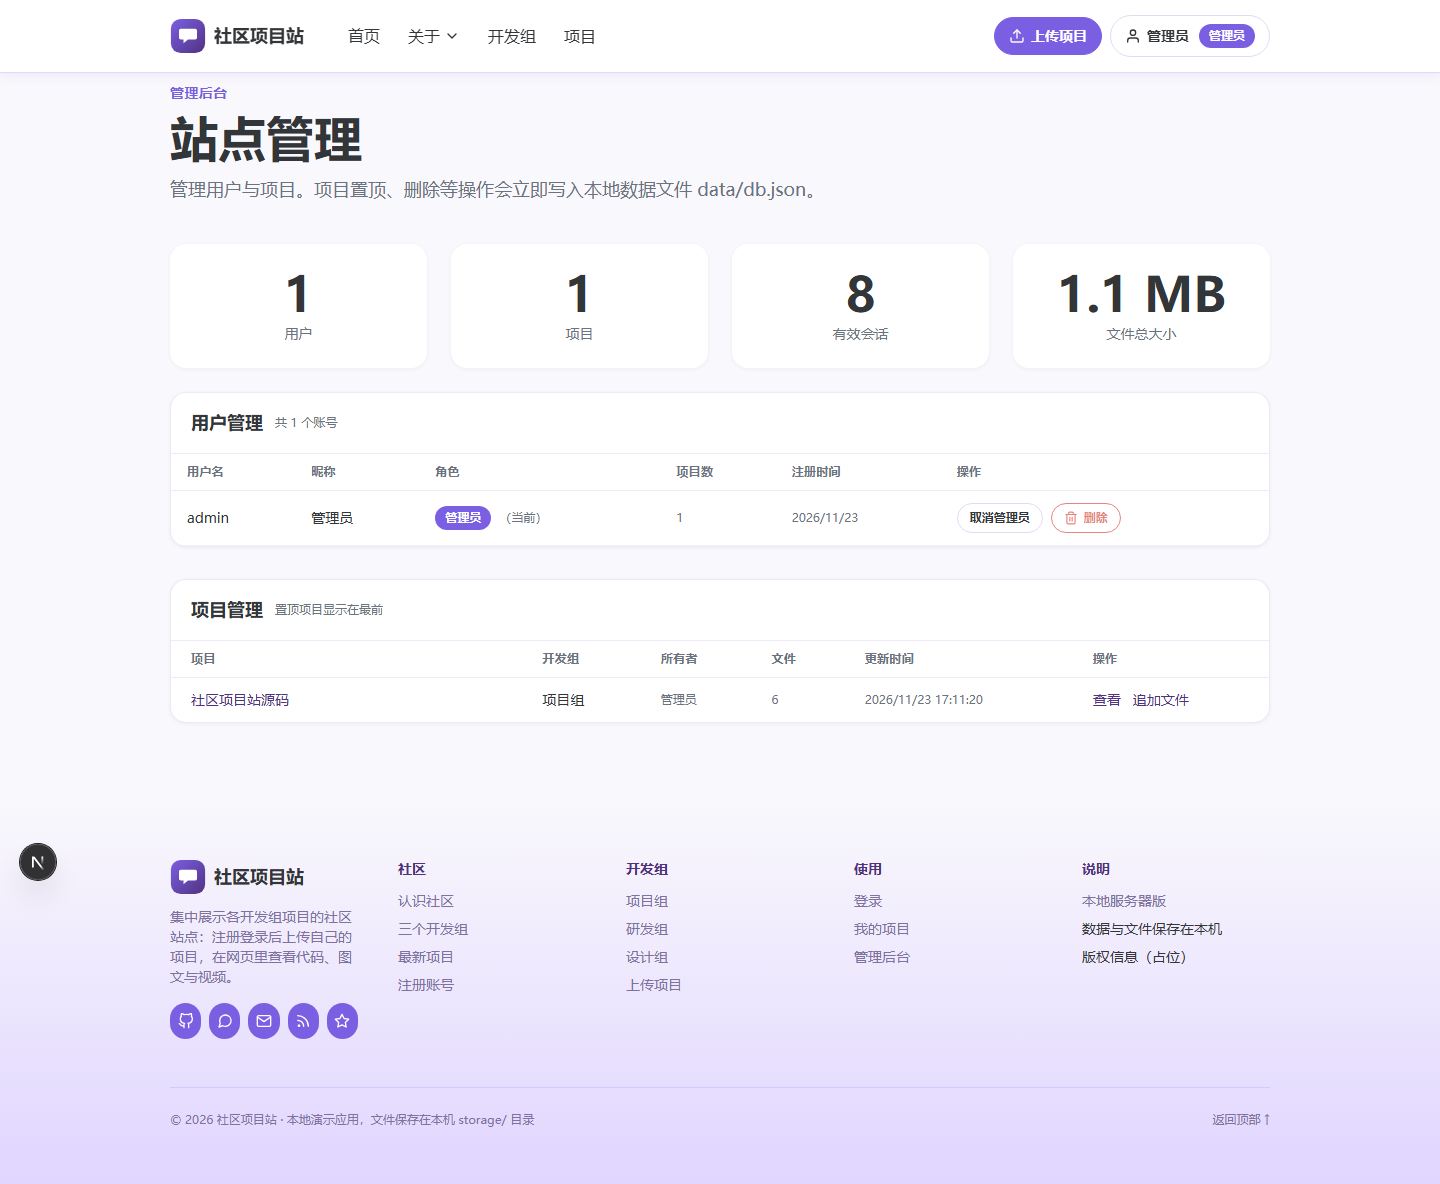
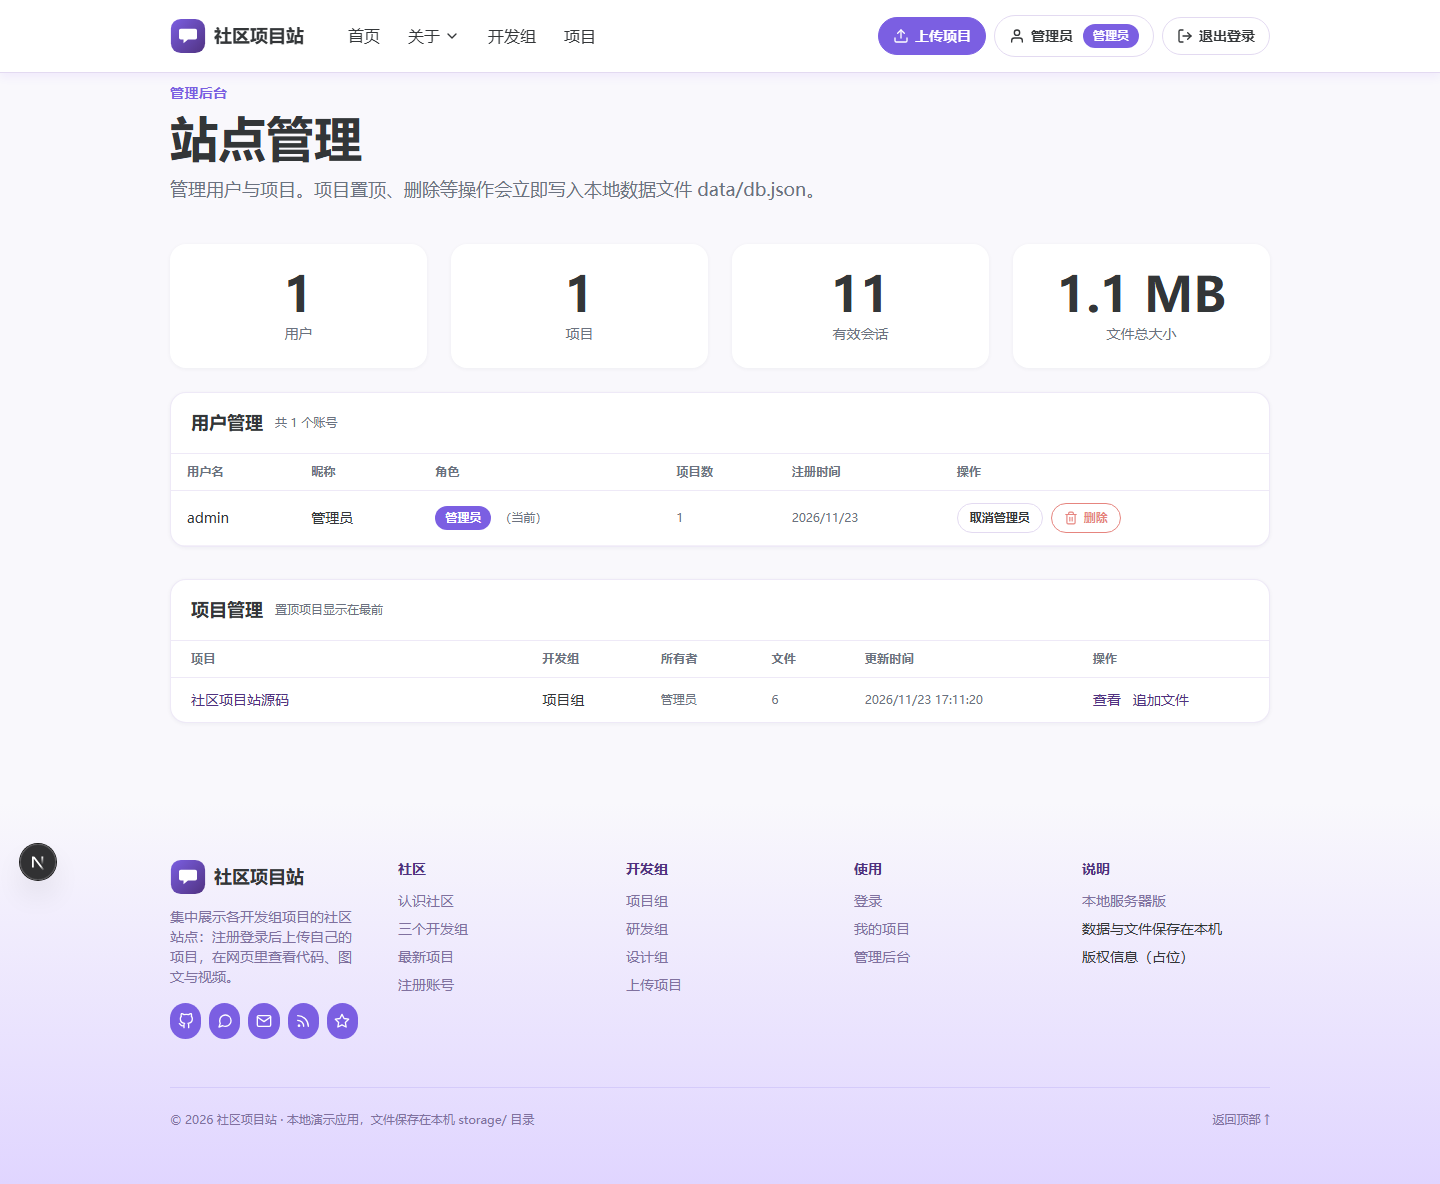
Add responsive logout controls to site header
Add desktop and mobile-menu logout buttons, fix mobile navigation contrast over hero backgrounds, and update product docs and screenshots.

Changed region(s): [[0.5938, 0.0, 0.875, 0.0625], [0.5625, 0.2188, 0.625, 0.2812]]

diff --git a/components/SiteHeader.tsx b/components/SiteHeader.tsx
@@ -4,6 +4,7 @@ import { useEffect, useState } from 'react';
 import Link from 'next/link';
 import { usePathname } from 'next/navigation';
 import { Icon } from './Icon';
+import { LogoutButton } from './LogoutButton';
 import type { PublicUser } from '@/lib/db';
 
 export function SiteHeader({ user }: { user: PublicUser | null }) {
@@ -84,6 +85,13 @@ export function SiteHeader({ user }: { user: PublicUser | null }) {
               <li>
                 <Link href="/#latest">项目</Link>
               </li>
+              {user && (
+                <li className="desktop:hidden">
+                  <div className="px-3 py-2">
+                    <LogoutButton className="btn btn--ghost btn--sm w-full" />
+                  </div>
+                </li>
+              )}
             </ul>
           </nav>
 
@@ -97,6 +105,7 @@ export function SiteHeader({ user }: { user: PublicUser | null }) {
                   <Icon name="user" className="w-4 h-4" /> {user.displayName}
                   {user.role === 'admin' && <span className="badge badge--admin ml-1">管理员</span>}
                 </Link>
+                <LogoutButton className="btn btn--ghost btn--sm hidden desktop:inline-flex" />
               </>
             ) : (
               <>

diff --git a/app/globals.css b/app/globals.css
@@ -74,6 +74,10 @@ body {
   .nav-toggle__bars { @apply relative w-5 h-[2px] bg-ink before:absolute before:content-[''] before:w-5 before:h-[2px] before:bg-ink before:-top-[6px] after:absolute after:content-[''] after:w-5 after:h-[2px] after:bg-ink after:top-[6px]; }
   .nav-open .site-nav { @apply block absolute left-0 right-0 top-full bg-white border-b border-line shadow-strong px-4 py-3; }
   .nav-open .nav-list { @apply flex-col items-stretch gap-0; }
+  /* 移动端下拉面板是白底：即使头部还处于深色 hero 上的透明态，面板内文字也必须是深色 */
+  .nav-open .site-header--transparent .nav-list a,
+  .nav-open .site-header--transparent .nav-link,
+  .nav-open .site-header--transparent .site-logo { @apply text-ink; }
 
   /* ---------- 按钮 ---------- */
   .btn { @apply inline-flex items-center justify-center gap-1.5 rounded-round font-bold text-md px-4 py-2.5 no-underline transition-all duration-150 cursor-pointer border; }

diff --git a/components/LogoutButton.tsx b/components/LogoutButton.tsx
@@ -4,14 +4,14 @@ import { useRouter } from 'next/navigation';
 import { Icon } from './Icon';
 import { useState } from 'react';
 
-export function LogoutButton() {
+export function LogoutButton({ className = 'btn btn--ghost btn--sm' }: { className?: string }) {
   const router = useRouter();
   const [busy, setBusy] = useState(false);
 
   return (
     <button
       type="button"
-      className="btn btn--ghost btn--sm"
+      className={className}
       disabled={busy}
       onClick={async () => {
         setBusy(true);

diff --git a/docs/PRD.md b/docs/PRD.md
@@ -190,7 +190,7 @@
 |F-04 组项目主页-项目卡片列表|组项目主页|页面加载|展示该组全部项目，一项目一卡片|无项目时显示空状态文案|P1|
 |F-05 项目卡片点击|组项目主页|点击项目卡片|进入对应项目的项目仓库页 /projects/[id]|本地完整应用已落地（2026.11.23）：三组卡片均可点击，进入项目仓库页；项目不存在时显示 404|P2|
 |F-06 注册账号|注册页 /register|填写用户名、昵称、密码并提交|创建账号并自动登录，跳转 /dashboard|用户名 3–20 位字母数字下划线连字符、密码至少 6 位、昵称最多 30 字；用户名重复返回 409；首个注册用户自动成为管理员|P2|
-|F-07 登录 / 退出|登录页 /login、导航栏退出|提交用户名密码 / 点击退出登录|登录成功写 httpOnly 会话 cookie（7 天）并跳转 /dashboard；退出后清除会话|用户名或密码不正确统一返回 401（不提示账号是否存在）；会话过期需重新登录|P2|
+|F-07 登录 / 退出|登录页 /login、导航栏「退出登录」（桌面按钮 + 移动端菜单内全宽按钮）|提交用户名密码 / 点击退出登录|登录成功写 httpOnly 会话 cookie（7 天）并跳转 /dashboard；退出后清除会话并返回首页|用户名或密码不正确统一返回 401（不提示账号是否存在）；会话过期需重新登录|P2|
 |F-08 上传项目|上传页 /upload|填写项目信息并选择文件或文件夹后提交|文件落盘 storage/projects/[项目 id]/，项目元数据写入 data/db.json，跳转项目仓库页|标题 2–60 字、标签最多 8 个、单次最多 500 个文件、单文件最大 2GB；非法相对路径（含 .. 等）与重复路径被跳过并在结果中列出；保存失败时清理已写文件|P2|
 |F-09 追加文件到已有项目|上传页（?project=[id]）|选择文件后提交|新文件追加到该项目目录并更新元数据|仅项目所有者或管理员可追加；已存在的路径会被跳过|P2|
 |F-10 项目仓库浏览|项目仓库页 /projects/[id]|页面加载|左侧目录树 + 右侧文件表（名称 / 类型 / 大小 / 查看 / 下载）|项目不存在显示 404；文件按类型打标（代码 / 图文 / 图片 / 视频 / 文本 / 其他）|P2|

diff --git a/docs/TASKS.md b/docs/TASKS.md
@@ -32,6 +32,8 @@
 | 2.2 | 首个注册用户为管理员 | 已完成 | `lib/db.ts` 注册逻辑 |
 | 2.3 | 管理员种子脚本（admin / abc123） | 已完成 | `scripts/seed-admin.mjs` |
 | 2.4 | 登录态注入全站（头部入口、未登录拦截上传页） | 已完成 | `app/layout.tsx`、`app/upload/page.tsx` |
+| 2.5 | 头部「退出登录」入口（桌面按钮 + 移动端菜单内全宽按钮，2026.11.23 追加） | 已完成 | `components/SiteHeader.tsx`、`components/LogoutButton.tsx`；点击后清 cookie 跳首页，`/dashboard` 需重新登录 |
+| 2.6 | 修复移动端菜单白底白字（深色 hero 上面板链接不可见） | 已完成 | `app/globals.css` `.nav-open` 规则 |
 
 ## 阶段 3：上传与文件系统（已完成）
 
